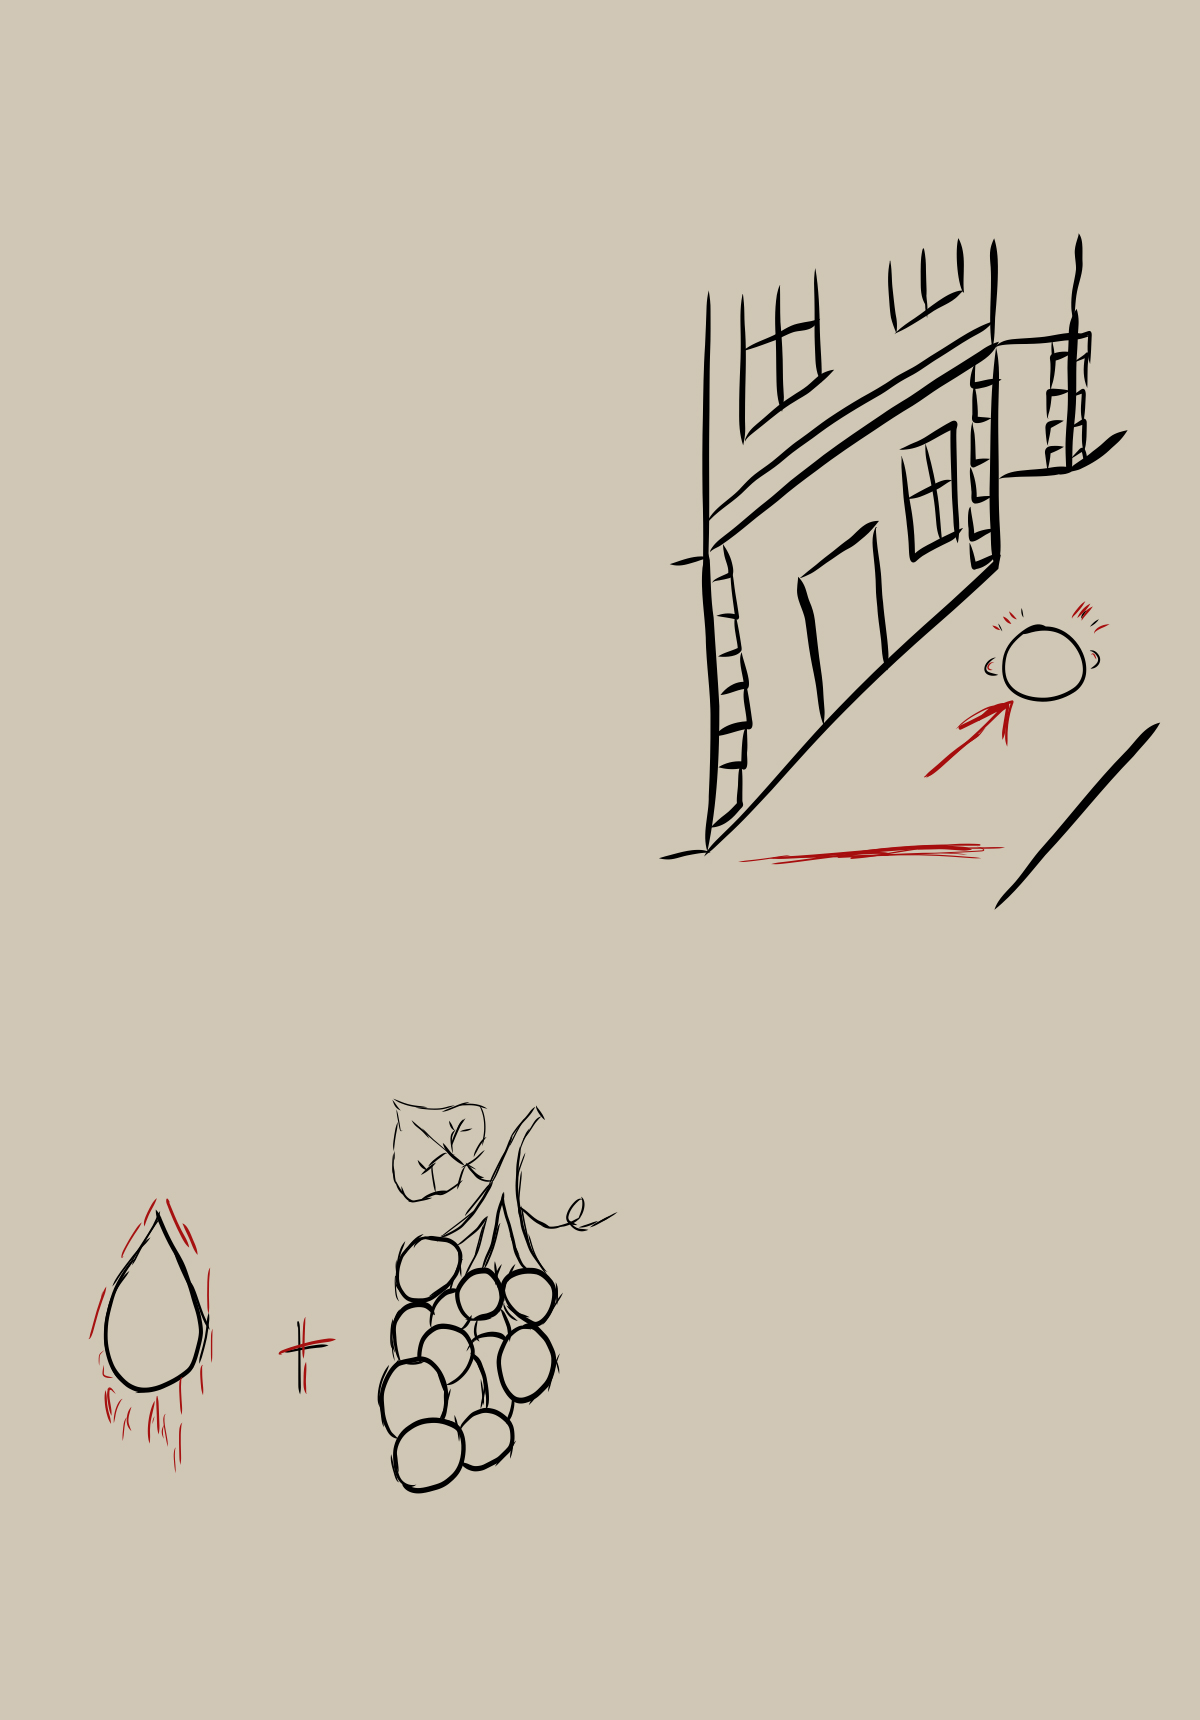
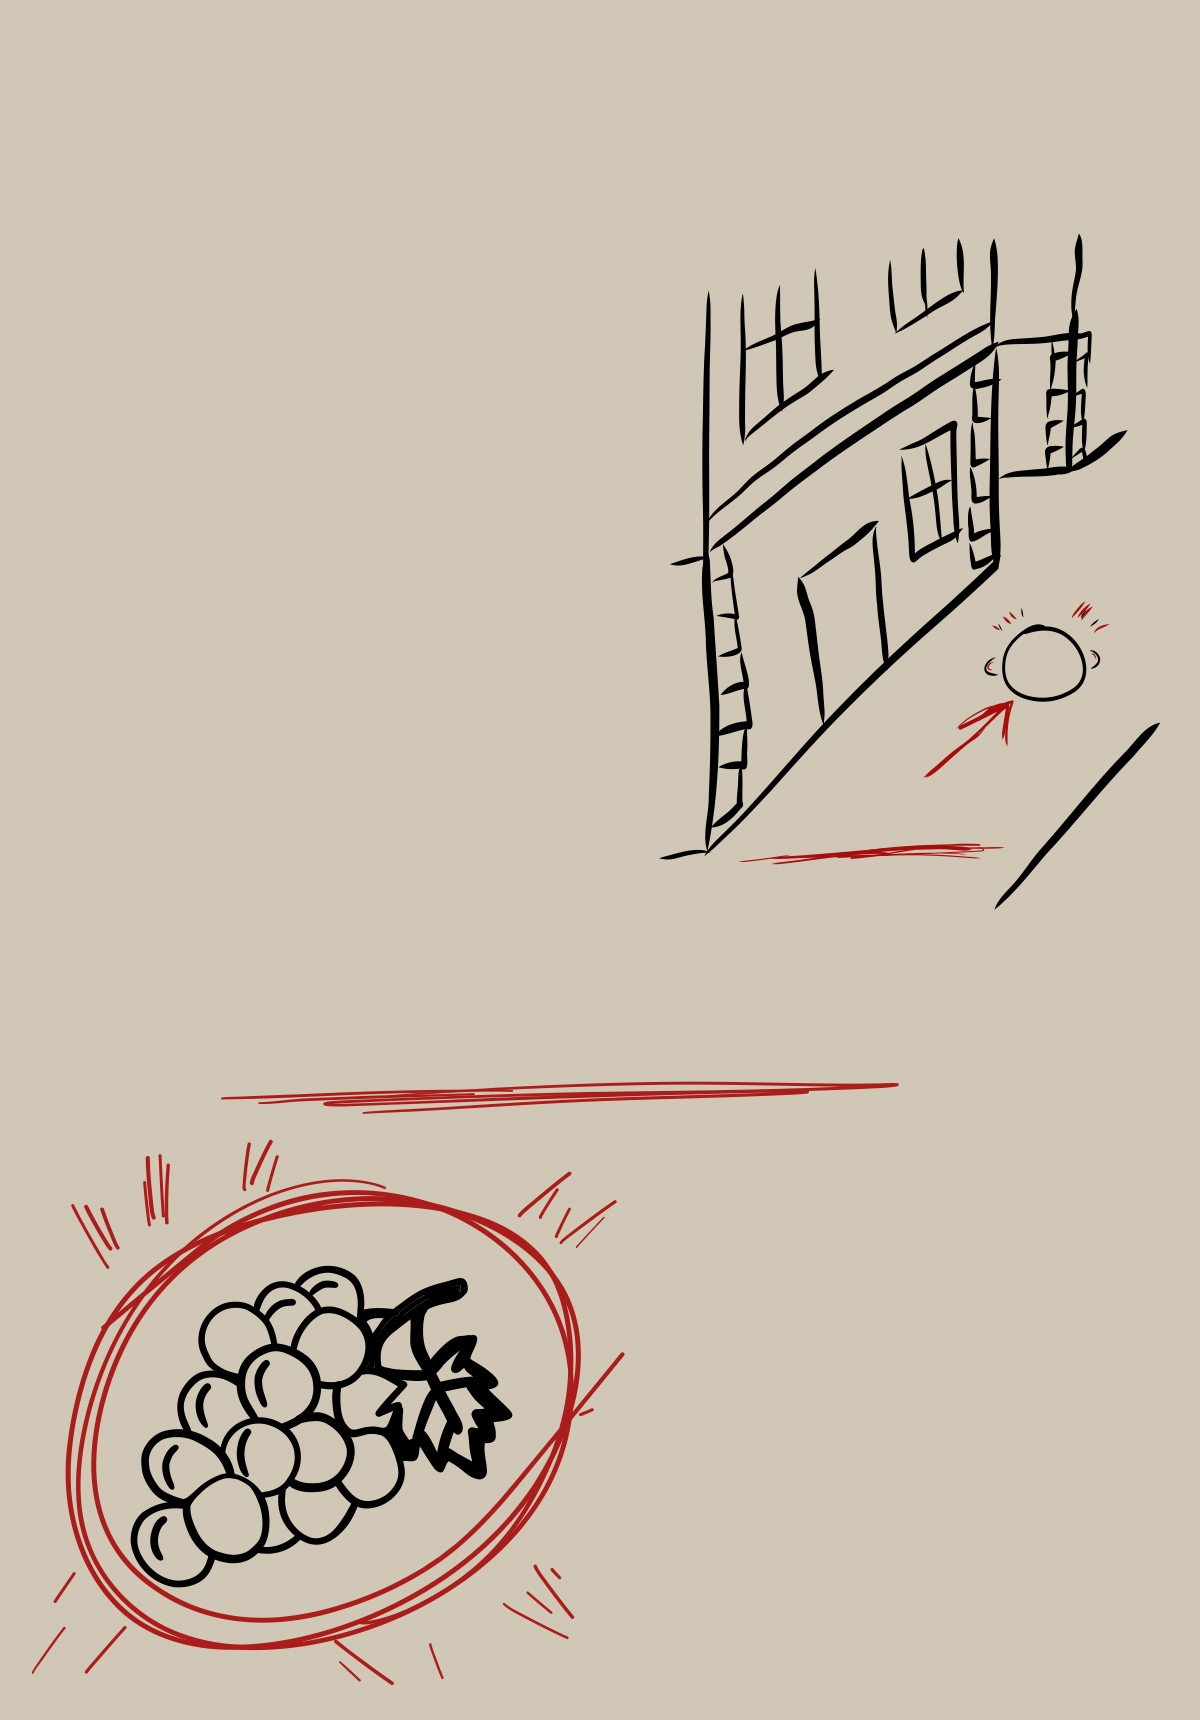
Texto Constelaciones

Changed region(s): [[0.0308, 0.6163, 0.74, 0.986], [0.4317, 0.9244, 0.4625, 0.9552]]

diff --git a/Manuscrito/src/game.cpp b/Manuscrito/src/game.cpp
@@ -34,6 +34,8 @@ constexpr array<TextureSpec, Game::NUM_TEXTURES> textureList{
 	{"TablaRunas.JPEG"},
 	{"Selector.png"},
 	{"Hoja1.JPEG"},
+	{"Hoja5.JPEG"},
+	{"Hoja6.JPEG"},
 	{"HojaVacia.png"}
 };
 
@@ -310,7 +312,7 @@ Game::handleEvents()
 			// GAFAS DESCIFRADORAS
 			if (event.key.key == SDLK_Q) {
 				glasses = !glasses;
-				if (currentText) {
+				/*if (currentText) {
 					Text* t = currentText->getComponent<Text>();
 					if (glasses) {
 						t->changeFont(baseFont, t->getFontSize() - 16);
@@ -318,7 +320,7 @@ Game::handleEvents()
 					else {
 						t->changeFont(manuscritoFont, t->getFontSize());
 					}
-				}
+				}*/
 			}
 
 			// CAMBIO DE PÁGINA DERECHA
@@ -359,17 +361,27 @@ void Game::createGameObjects() {
 	hoja2->addComponent<SpriteRenderer>(getTexture(HOJA_VACIA), 0, 0);
 
 	GameObject* hoja3 = new GameObject("Hoja3", 2);
-	hoja3->addComponent<Transform>(Vector2D<float>(1, 1), 0.16);
+	hoja3->addComponent<Transform>(Vector2D<float>(1, 1), 0.1875);
 	hoja3->addComponent<SpriteRenderer>(getTexture(TABLA_RUNAS), 0, 0);
 
 	GameObject* hoja4 = new GameObject("Hoja4", 2);
-	hoja4->addComponent<Transform>(Vector2D<float>(1, 1), 0.16);
+	hoja4->addComponent<Transform>(Vector2D<float>(1, 1), 0.1875);
 	hoja4->addComponent<SpriteRenderer>(getTexture(RUNAS), 0, 0);
+
+	GameObject* hoja5 = new GameObject("Hoja5", 2);
+	hoja5->addComponent<Transform>(Vector2D<float>(1, 1), 0.1875);
+	hoja5->addComponent<SpriteRenderer>(getTexture(HOJA5), 0, 0);
+
+	GameObject* hoja6 = new GameObject("Hoja6", 2);
+	hoja6->addComponent<Transform>(Vector2D<float>(1, 1), 0.1875);
+	hoja6->addComponent<SpriteRenderer>(getTexture(HOJA6), 0, 0);
 
 	bookPages.push_back(hoja1);
 	bookPages.push_back(hoja2);
 	bookPages.push_back(hoja3);
 	bookPages.push_back(hoja4);
+	bookPages.push_back(hoja5);
+	bookPages.push_back(hoja6);
 
 	manuscrito = new Book(bookPages, WINDOW_WIDTH / 2 - 5, WINDOW_HEIGHT / 2 - 9, 125);
 	pagesCount = manuscrito->getPageCount();
@@ -384,6 +396,8 @@ void Game::createGameObjects() {
 	gameObjects.push_back(hoja3);
 	gameObjects.push_back(hoja4);
 	gameObjects.push_back(hoja4_2);
+	gameObjects.push_back(hoja5);
+	gameObjects.push_back(hoja6);
 
 #pragma endregion
 
@@ -567,24 +581,30 @@ void Game::createGameObjects() {
 
 #pragma endregion
 
-	manuscrito->changePage(0);
+#pragma region Mapa Estelar
+	GameObject* selector1E = new GameObject("Selector1E", 4, hoja5);
+	selector1E->addComponent<Transform>(Vector2D<float>(71, -51), 0.03);
+	selector1E->addComponent<SpriteRenderer>(getTexture(SELECTOR), 0, 0);
+	Selector* sl1E = selector1E->addComponent<Selector>();
+	Button* btS1E = selector1E->addComponent<Button>();
+	btS1E->onClick = [sl1E]() { sl1E->onClick(); };
+
+	overlays.push_back(selector1E);
+	gameObjects.push_back(selector1E);
+#pragma endregion
+
+	manuscrito->changePage(4);
 }
 
 #pragma region ButtonEvents
 
 // Muestra el texto asociado al botón
 void Game::showText(GameObject* text) {
-	if (glasses) {
-		// Si ya hay un texto mostrado, lo ocultamos
-		if (currentText != nullptr && currentText != text) {
-			Text* textComp = currentText->getComponent<Text>();
-			textComp->changeFont(manuscritoFont, textComp->getFontSize());
-		}
-
+	Text* t = text->getComponent<Text>();
+	if (glasses && !t->showed) {
 		// Mostramos el texto seleccionado
-		Text* t = text->getComponent<Text>();
 		t->changeFont(baseFont, t->getFontSize() - 16);
-		currentText = text;
+		t->showed = true;
 	}
 }
 #pragma endregion

diff --git a/Manuscrito/src/game.h b/Manuscrito/src/game.h
@@ -28,7 +28,7 @@ public:
 	static constexpr int FONT_SIZE = 60;
 	static constexpr float MANUS_FONT_SIZE = 76.5;
 
-	static constexpr unsigned short RUNIC_TEST_SOLUTION = 0b000000000000;
+	static constexpr unsigned short RUNIC_TEST_SOLUTION = 0b000000010000;
 	static constexpr unsigned short RUNIC_TEST_LENGHT = 1;
 
 	enum TextureName
@@ -38,6 +38,8 @@ public:
 		TABLA_RUNAS,
 		SELECTOR,
 		HOJA1,
+		HOJA5,
+		HOJA6,
 		HOJA_VACIA,
 		NUM_TEXTURES
 	};

diff --git a/Manuscrito/src/Text.h b/Manuscrito/src/Text.h
@@ -21,6 +21,7 @@ private:
 	SDL_Renderer* renderer;
 	SDL_Texture* textureSDL;
 
+
 	void updateSurface();
 
 public:
@@ -38,4 +39,6 @@ public:
 
 	void changeFont(TTF_Font* newFont, int size);
 	void changeFont(TTF_Font* newFont, size_t textureWidth);
+
+	bool showed = false;
 };

diff --git a/Manuscrito/src/Selector.cpp b/Manuscrito/src/Selector.cpp
@@ -31,5 +31,5 @@ void Selector::deSelect() {
 }
 
 void Selector::onComponentAdd() {
-	gameObject->spriteRenderer->isEnabled = false;
+	//gameObject->spriteRenderer->isEnabled = false;
 }
